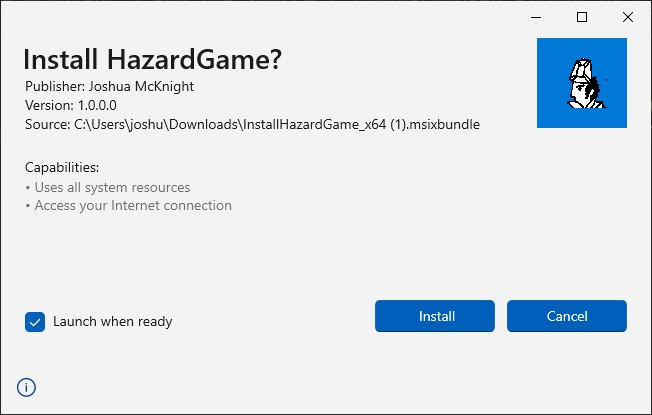
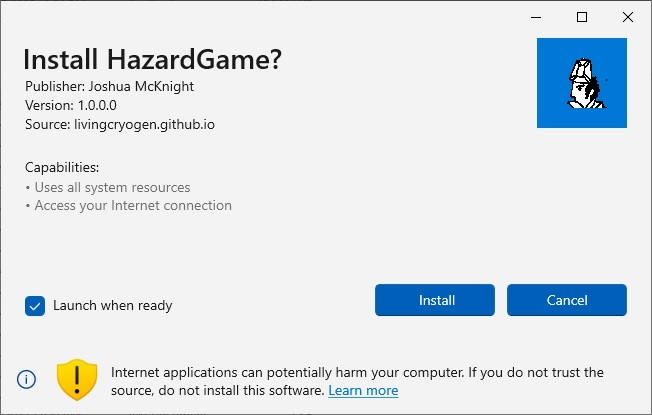
Finished "Download.html", moving on to About

diff --git a/Deployment/GitHubPages/wwwroot/Download.html b/Deployment/GitHubPages/wwwroot/Download.html
@@ -6,6 +6,7 @@
     <link rel="stylesheet" href="stylesheet.css">
 </head>
 <body class="dynamic-content-body">
+    <br/>
     <h4>
         <i>Hazard!</i> is a board game for 2-6 local players.<br />
         To install, simply click a Download button and open the file.
@@ -13,7 +14,7 @@
     <h5>
         Note: You may need to wait a moment for your request to be verified.
     </h5>
-    <br/>
+    <br/><br/>
     <h2>
         Installation Details
     </h2>
@@ -31,13 +32,11 @@
         <img class="inline-pic" src="Images/Install.jpg" alt="What the installation window should look like." />
         <div class="image-text">
             <p>
-                Publisher Name: "Joshua McKnight" <br /><br />
-                Source: "livingcryogen.github.io"
+                <u>Publisher Name</u> Joshua McKnight <br /><br />
+                <u>Source</u> livingcryogen.github.io
             </p>
-            <p>
-                In the event you see a warning, please verify this information. 
-            </p>
-            <p> You may also verify the digital signature (see below).</p>
+            <p> If you see a warning, please verify this information. </p>
+            <p> You may also verify the digital signature (see below). </p>
         </div>
     </div>
     <br/>
@@ -45,13 +44,24 @@
         Digital Signature
     </h4>
     <p class="indented-p">
-        The files are signed by me, "Joshua McKnight," via Microsoft's Azure Trusted Signing. To verify, and you may right-click
-        the installation bundle, select "Properties" -> "Digital Signatures."
+        The package is signed by me ("Joshua McKnight") via Microsoft's Azure Trusted Signing. You may right-click the package
+        and select "Properties" -> "Digital Signatures." Then you should see:
     </p>
 
-    <div class="image_flexbox">
-        <img class="download-pic" src="Images/AppSettings.jpg" />
-
+    <div class="image-with-text">
+        <div class="horizontal-flexbox">
+            <img src="Images/DigitalSignaturesList.jpg" alt="Digital Signatures List" />
+            <img src="Images/DigitalSignatureDetails.jpg" alt="Digital Signature Details" />
+            <img src="Images/Certificate.jpg" alt="Signing Certificate Info" />
+            <img src="Images/CertificatePath.jpg" alt="Signing Certifiate Authority Chain" />
+        </div>
+        <div class="image-text">
+            <p><u>Signer</u> Joshua McKnight
+            <p><u>Countersigner</u> Microsoft Public RSA...</p>
+            <p><u>Certificate</u> OK, Valid, Trusted...</p>
+            <p><u>Timestamp</u> In Certificate Validity Period</p>
+            <p><u>Cert. Path</u> Microsoft Identity RCA</p>
+        </div>
     </div>
 </body>
 </html>

diff --git a/Deployment/GitHubPages/wwwroot/stylesheet.css b/Deployment/GitHubPages/wwwroot/stylesheet.css
@@ -87,7 +87,7 @@ h1 {
 
 h2 {
     text-align: left;
-    margin: .4em 0 0 .8em;
+    margin: 0 0 0 .8em;
 }
 
 h3 {
@@ -224,11 +224,47 @@ centered-p {
     box-shadow: 0 6px 18px rgba(0,0,0, 0.5);
 }
 
+.horizontal-flexbox {
+    display: flex;
+    flex-direction: row;
+    flex-wrap: nowrap;
+    gap: 0.5em;
+    width: 100%;
+    overflow-x: auto;
+    padding-bottom: 10px;
+    scrollbar-width: thin;
+    -webkit-overflow-scrolling: touch;
+}
+
+.horizontal-flexbox img {
+    min-width: 200px;
+    width: auto;
+    object-fit: contain;
+    flex-shrink: 0;
+}
+
+.horizontal-flexbox::-webkit-scrollbar {
+    height: 6px;
+}
+
+.horizontal-flexbox::-webkit-scrollbar-track {
+    background: #2a3141;
+    border-radius: 3px;
+}
+.horizontal-flexbox::-webkit-scrollbar-thumb {
+    background: #31c1cc;
+    border-radius: 3px;
+}
+.horizontal-flexbox::-webkit-scrollbar-thumb:hover {
+    background: #FFF5F5DC;
+}
+
 .image-with-text {
     display: grid;
     grid-template-columns: minmax(0, 45%) 1fr;
-    gap: .1em;
+    gap: 1em;
     align-items: center;
+    margin-bottom: 2em;
 }
 
 .image-text {
@@ -236,4 +272,16 @@ centered-p {
     flex-direction: column;
     justify-content: center;
     height: 100%;
+}
+
+/* Media query for smaller screens */
+@media (max-width: 768px) {
+    .image-with-text {
+        grid-template-columns: 1fr; /* Stack vertically on smaller screens */
+    }
+
+    .image-text {
+        padding-left: 0; /* Remove left padding when stacked */
+        margin-top: 1em; /* Add top margin when stacked */
+    }
 }

diff --git a/Deployment/GitHubPages/wwwroot/About.html b/Deployment/GitHubPages/wwwroot/About.html
@@ -8,11 +8,14 @@
 </head>
 <body>
     <p class="indented-p">
-        Hazard! is a local "hot-seat" game for two to six players developed using Windows Presentation Foundation (WPF). 
-        Windows users may download and run the application by clicking the Download! link above (published using Click-Once).<br /><br />
+        Hi. I'm Josh McKnight, an aspiring software developer. And this is my first portfolio project site!
+
+        <i>Hazard!</i> is a local, "hot-seat" game for two to six players developed using Windows Presentation Foundation (WPF). Deployed as an MSIX
+        package (.msixbundle), Windows users may download and run the application by clicking the appropriate button above. For installation details,
+        click "Download"<br /><br />
     </p>
     <p class="indented-p">
-        For more details, browse the other subsections of this site and check out the github repository ('Repo').
+        For full details on the project, browse the other subsections of this site and check out the github repository ('Repo').
     </p>
 </body>
 </html>
